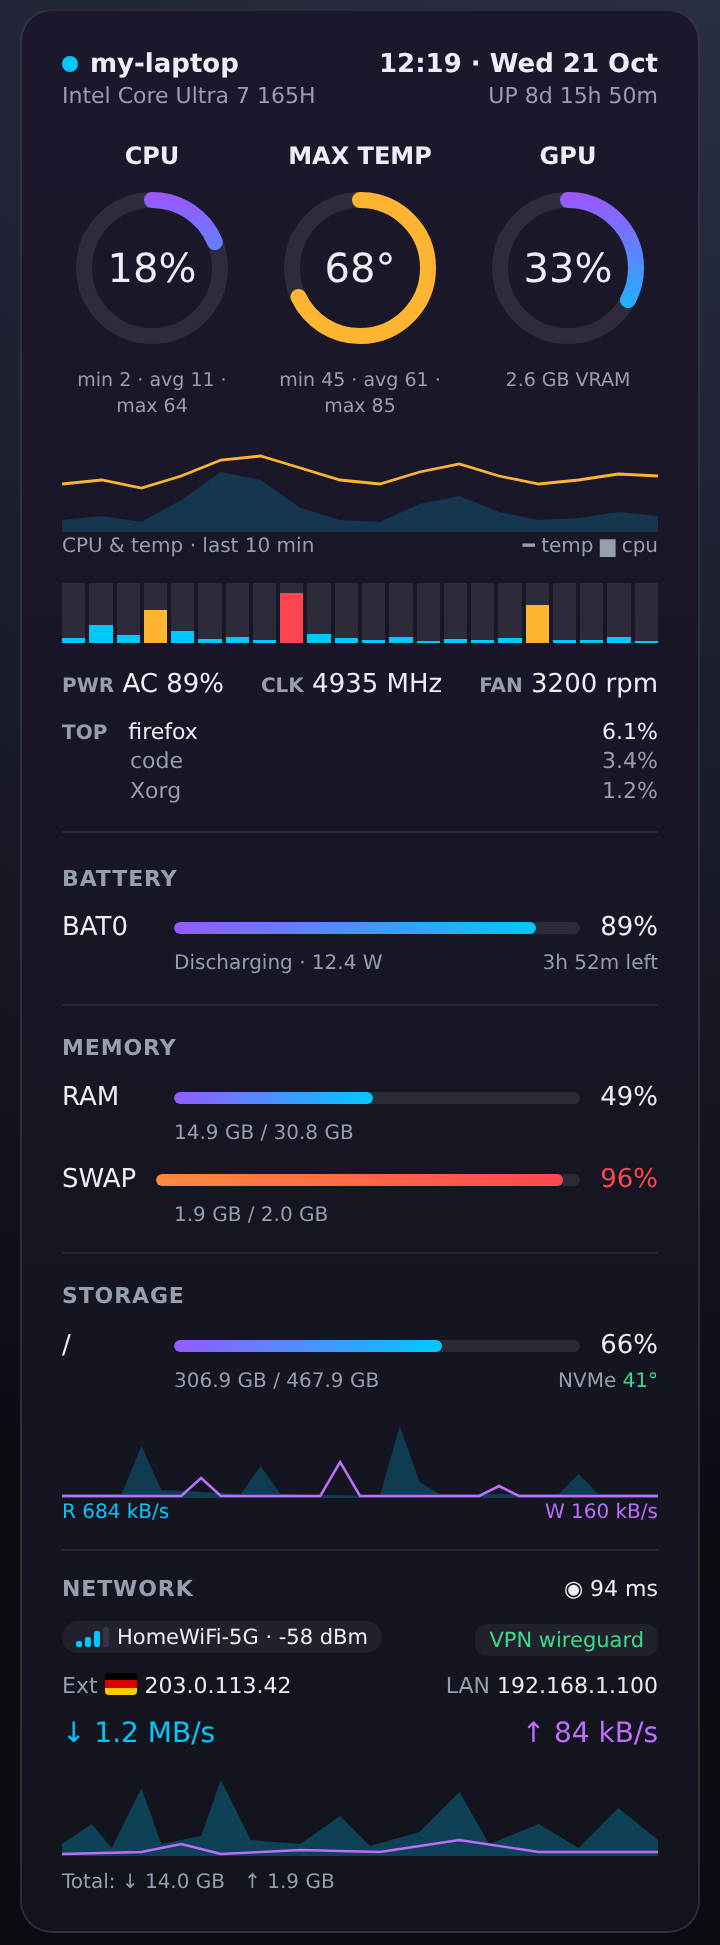
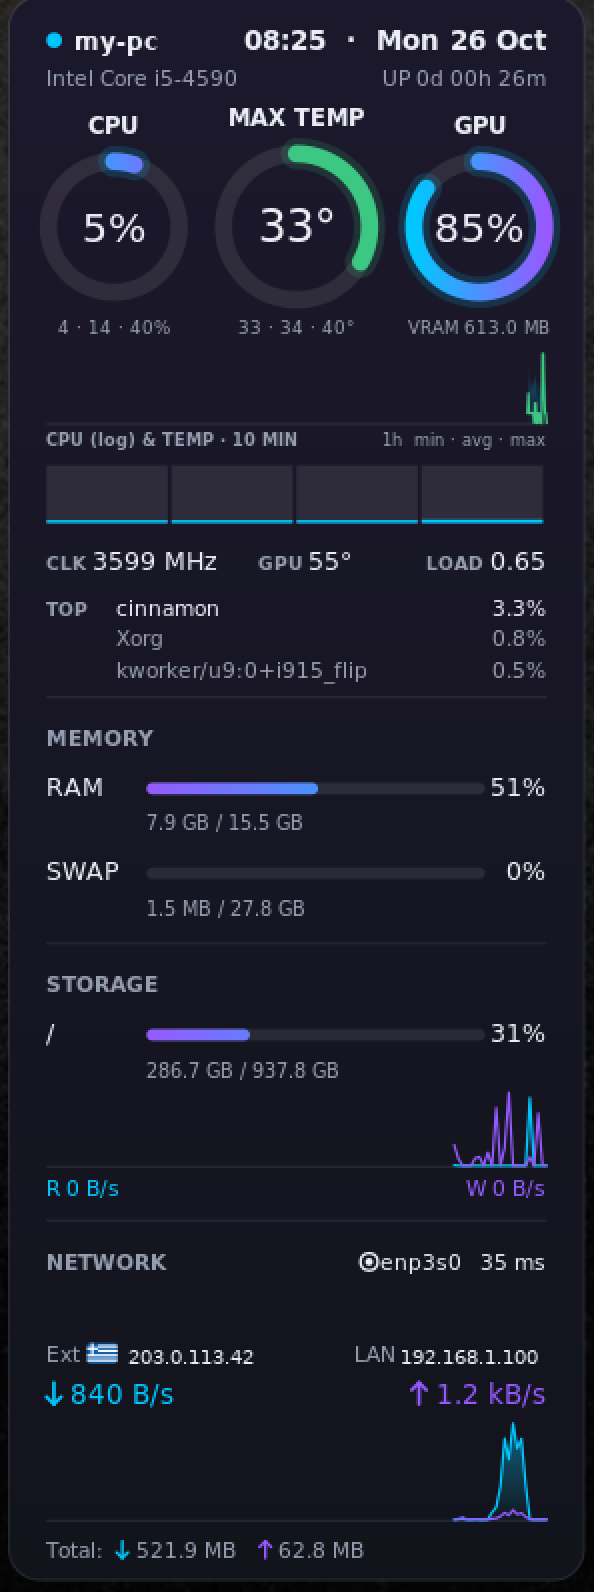
Replace mockup renders with real screenshots
Hostname and IP addresses are replaced with placeholders.

diff --git a/README.md b/README.md
@@ -8,7 +8,7 @@ Glowing system monitor **desklet for Linux Cinnamon**. A port of the [Coreglow R
   <img src="screenshots/weather.png" width="340" alt="Coreglow weather and collapsed view">
 </p>
 
-<sub>Preview rendered with sample data.</sub>
+<sub>Real screenshot. Hostname and IP addresses replaced with placeholders.</sub>
 
 ## Features
 
